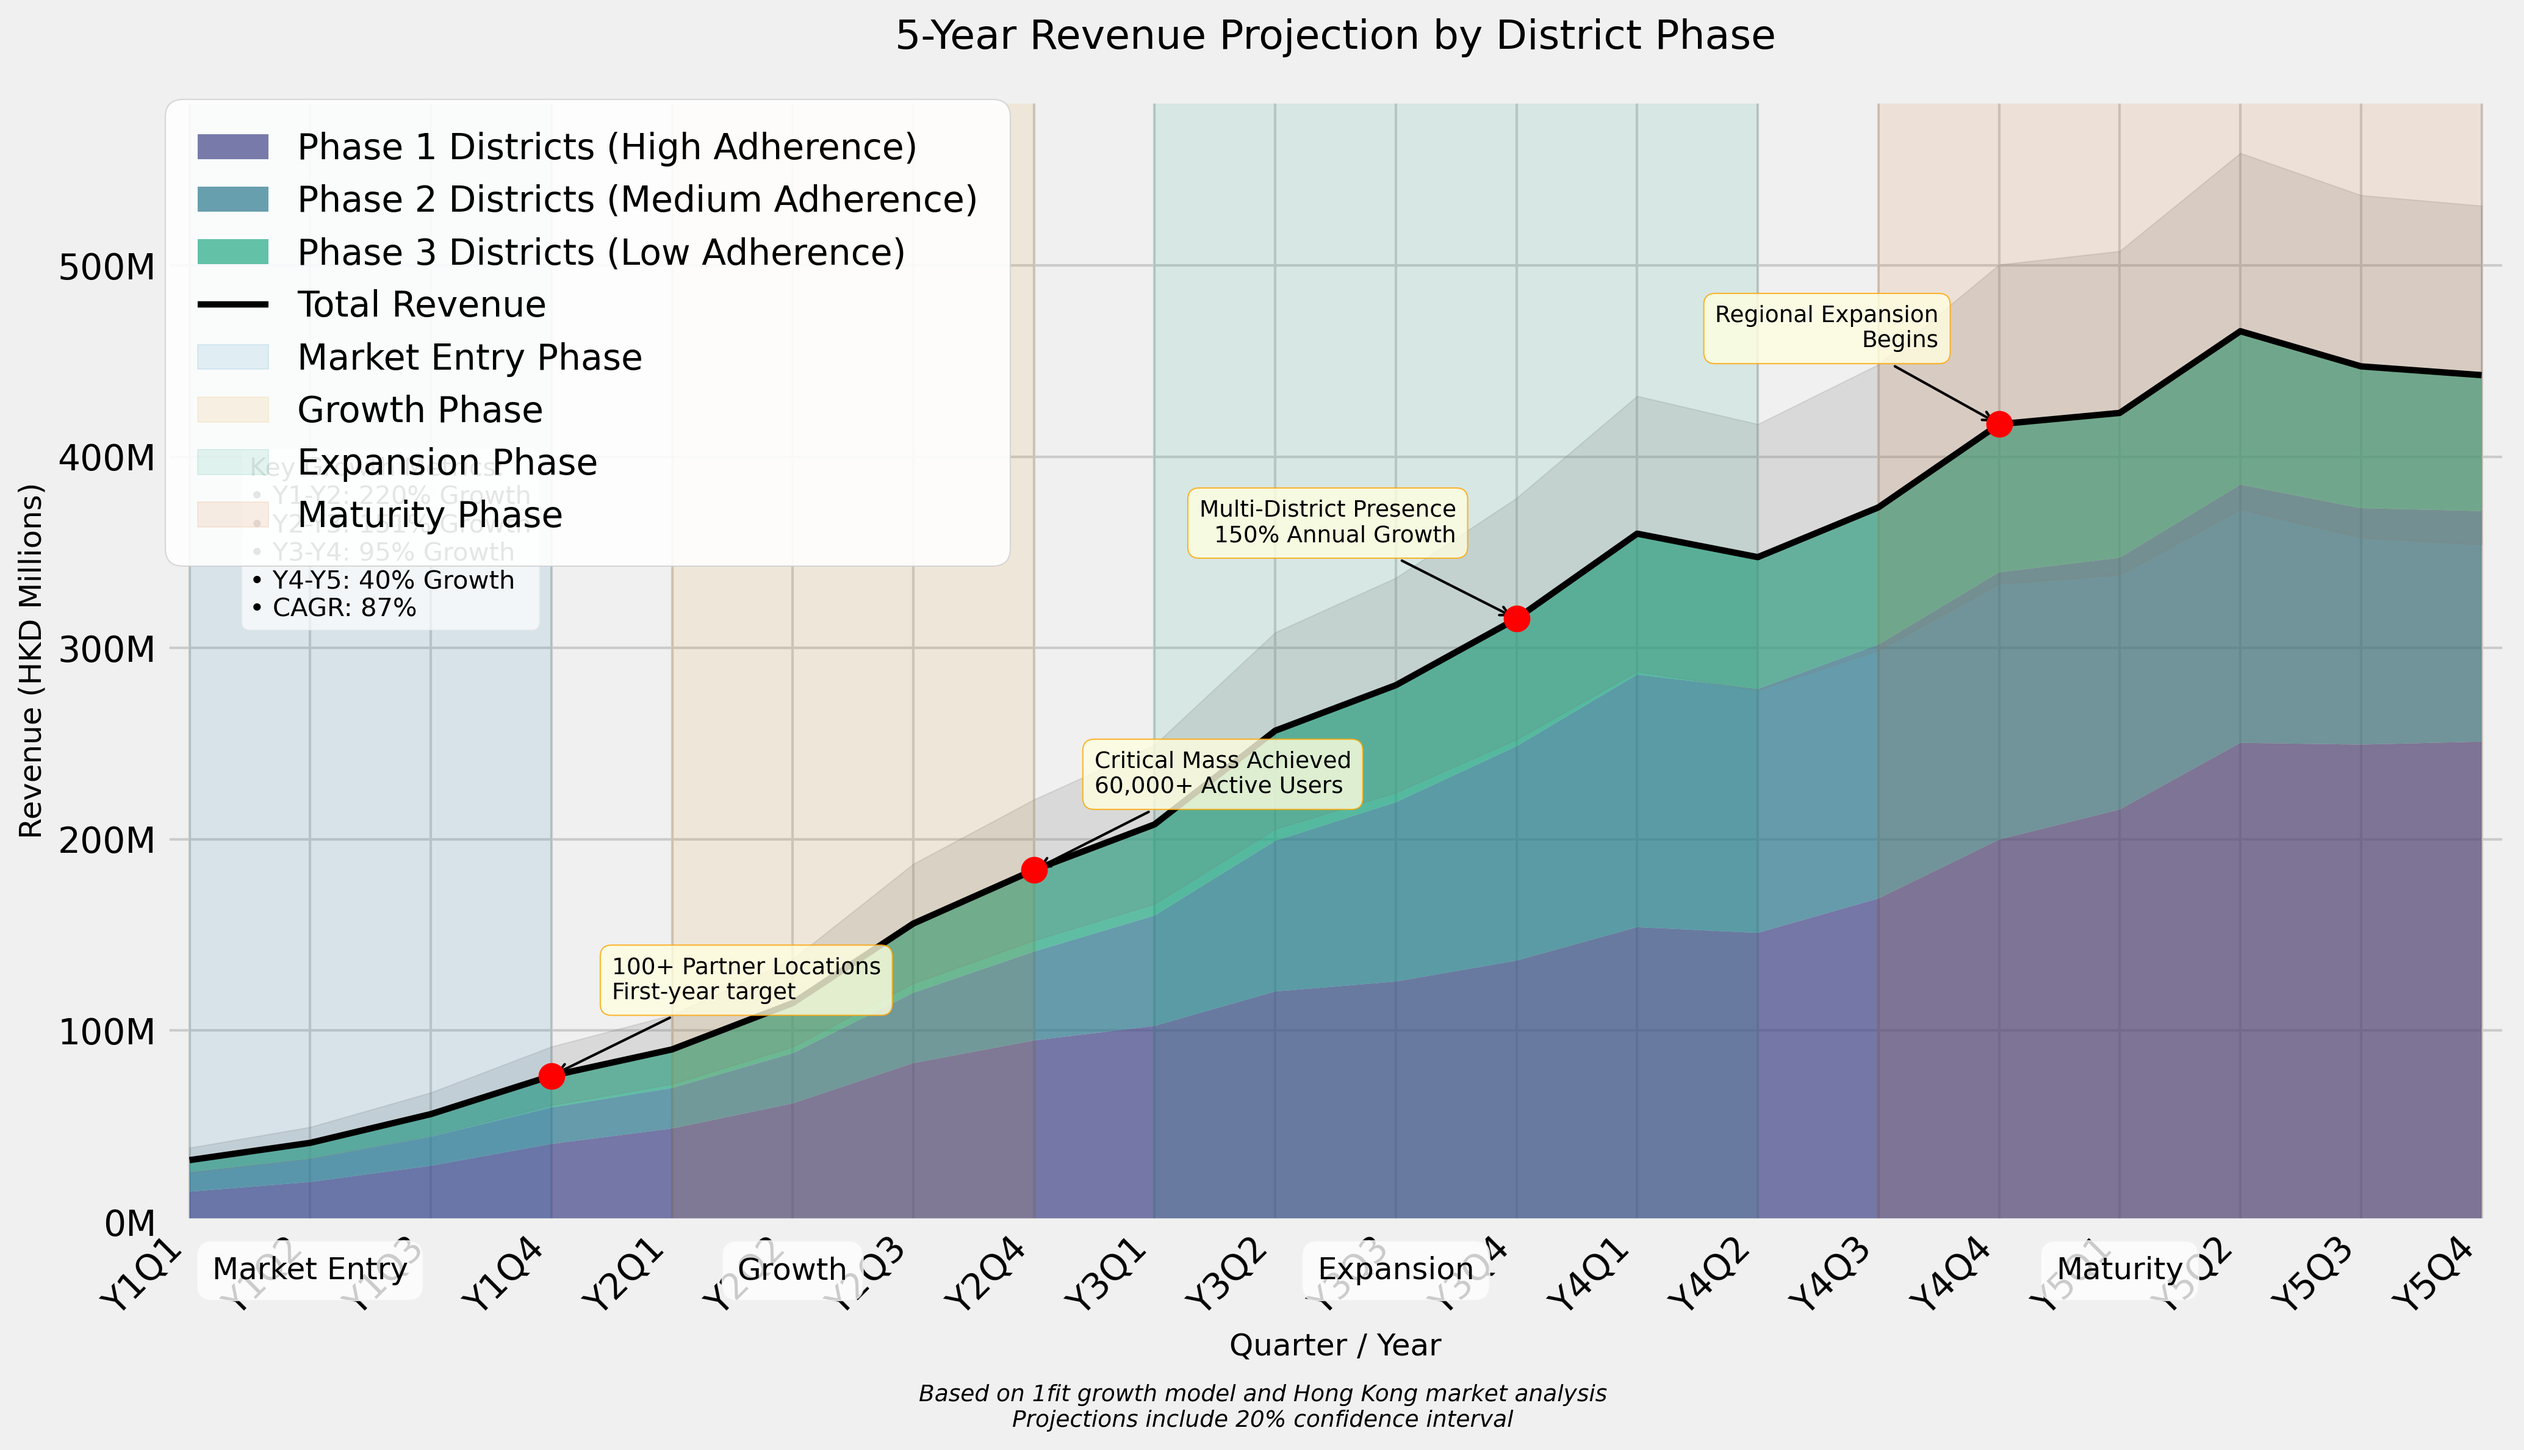
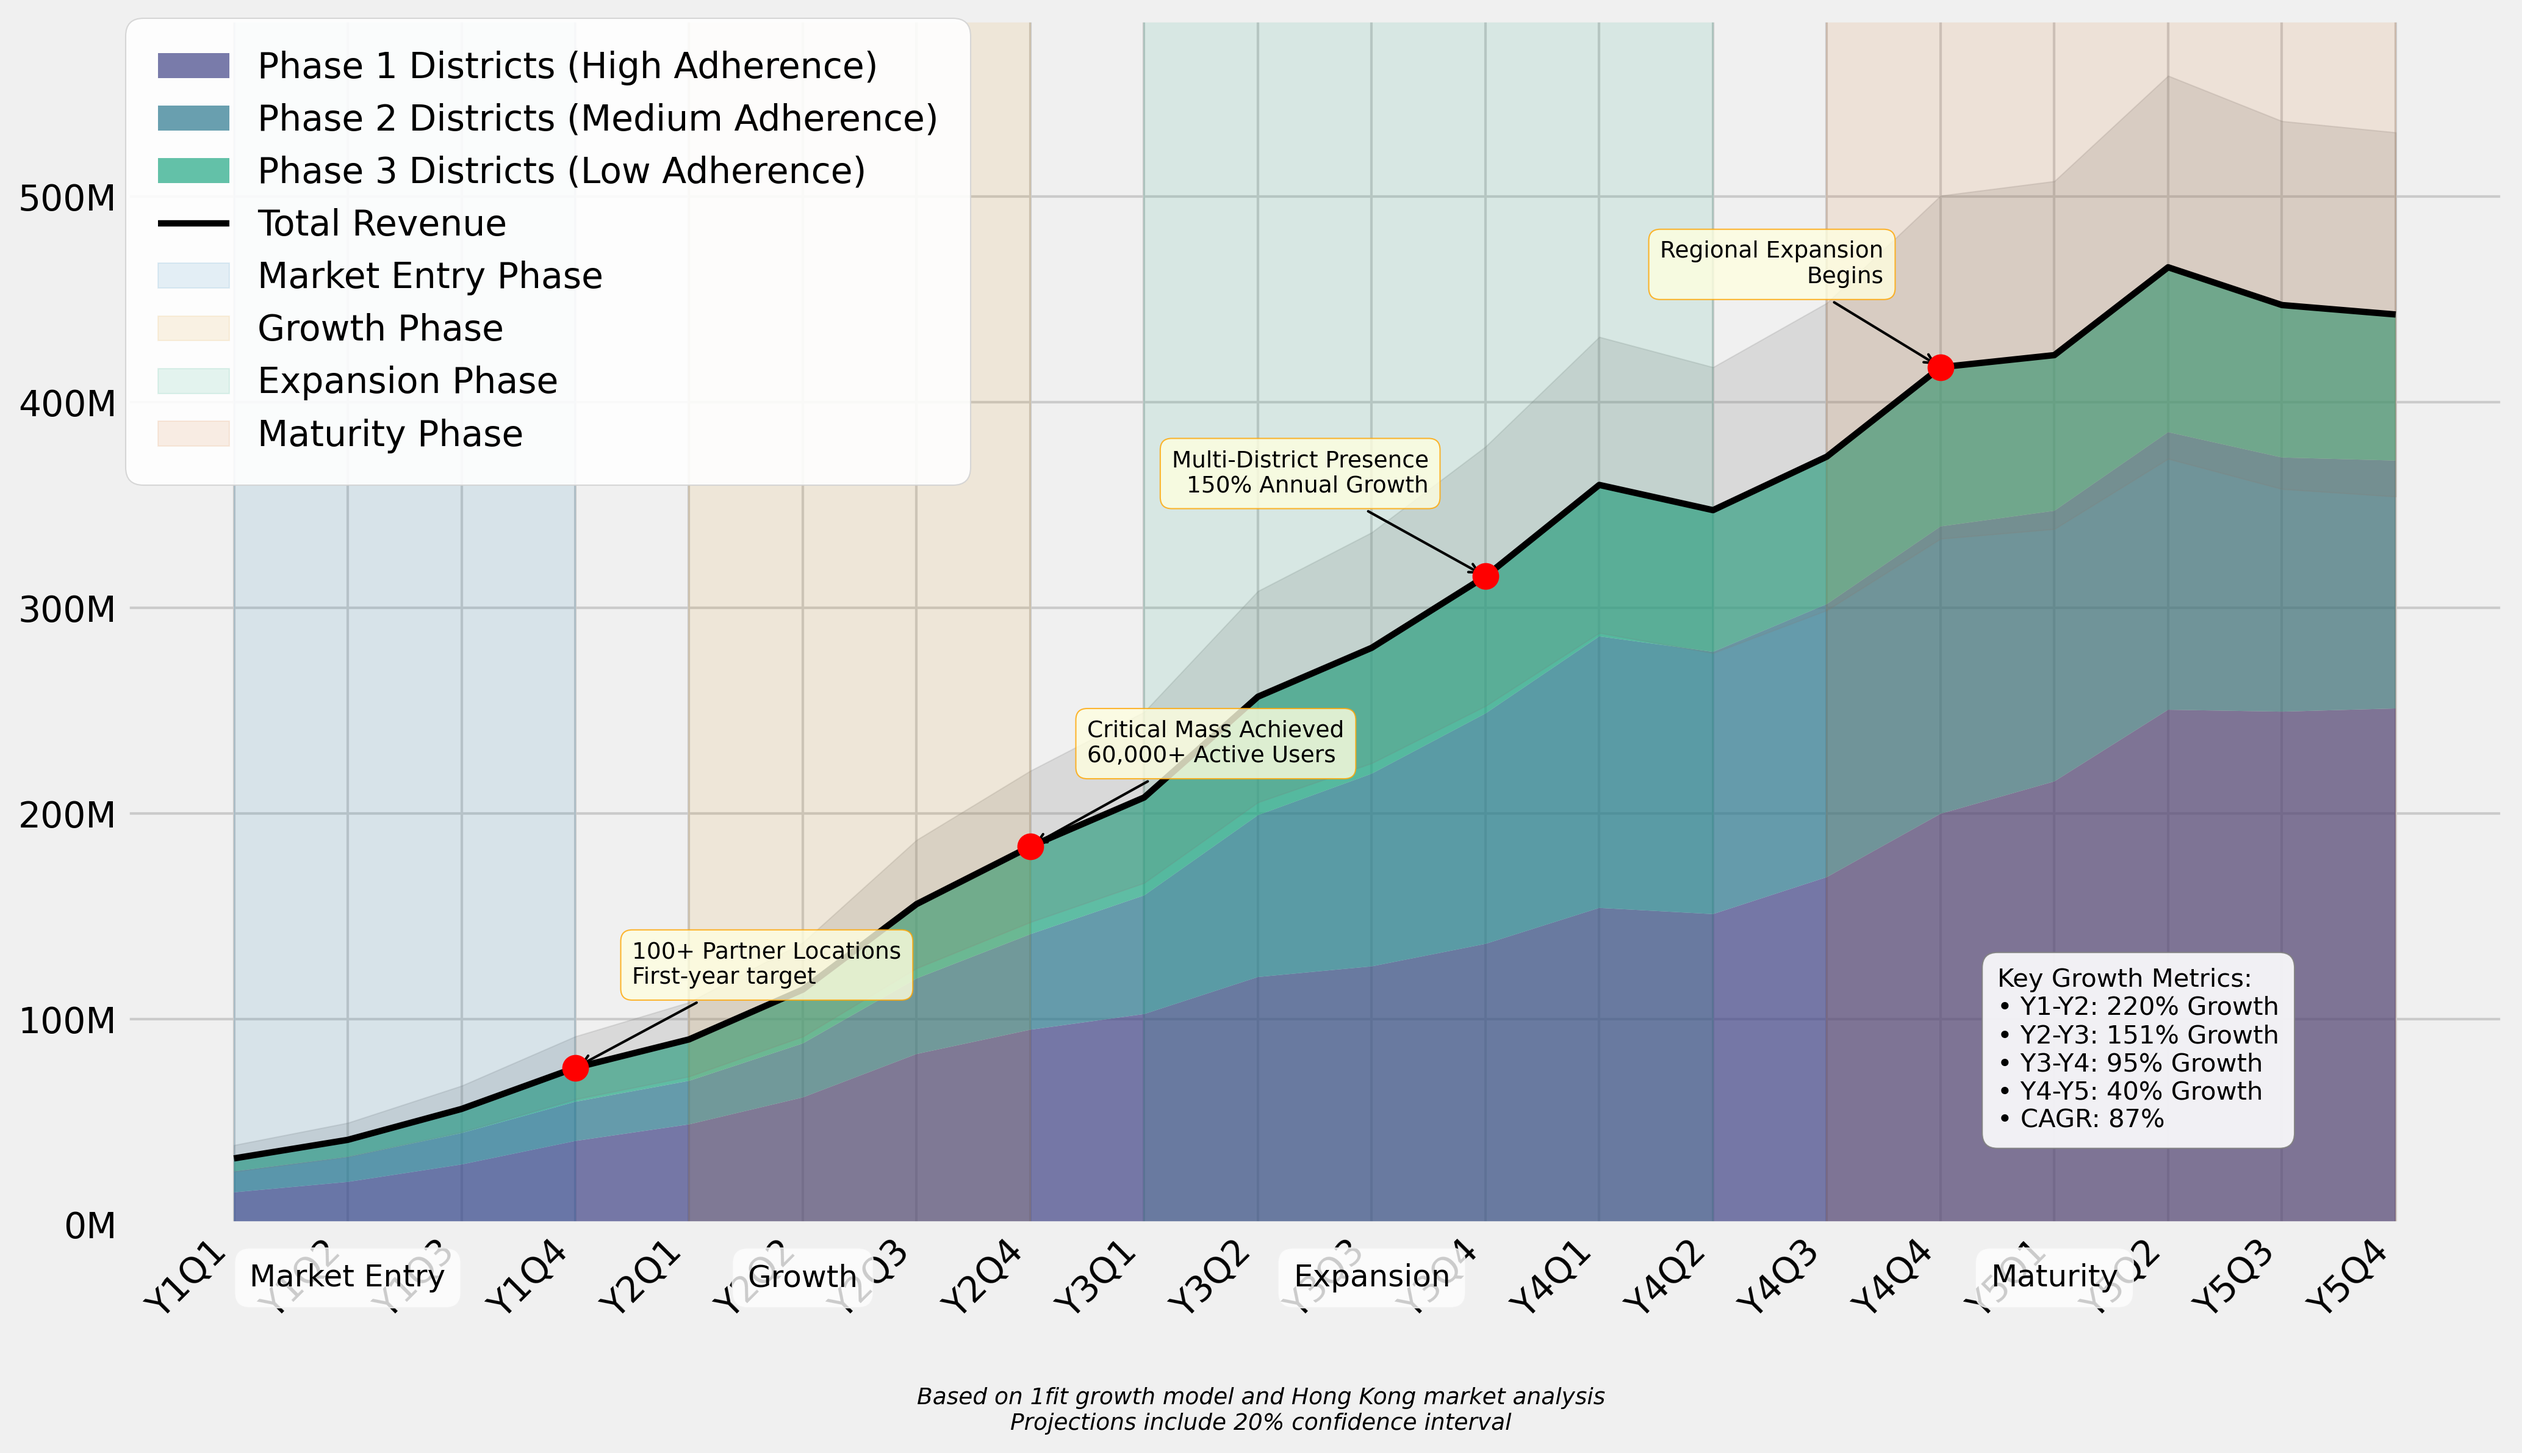
cer

diff --git a/impact_analysis/revenue_growth.py b/impact_analysis/revenue_growth.py
@@ -143,18 +143,25 @@ metrics_text = (
     "• Y4-Y5: 40% Growth\n"
     "• CAGR: 87%"
 )
-props = dict(boxstyle='round', facecolor='white', alpha=0.7)
-ax.text(1.5, 400, metrics_text, fontsize=10,
-        verticalalignment='top', horizontalalignment='left',
-        bbox=props)
 
-# Improve appearance
-ax.set_ylim(bottom=0)
-ax.set_xlim(0.8, 20.2)  # Give a bit of padding on both sides
-ax.set_ylabel('Revenue (HKD Millions)', fontsize=12)
-ax.set_xlabel('Quarter / Year', fontsize=12)
-ax.set_title('5-Year Revenue Projection by District Phase', fontsize=16, pad=20)
+# Enhanced styling for the metrics box to prevent overlap
+props = dict(
+    boxstyle='round,pad=0.6',
+    facecolor='white', 
+    edgecolor='gray',
+    alpha=0.9  # More opaque background
+)
 
+# Move to a better position and increase zorder to keep it on top
+ax.text(
+    16.5, 125,  # Position in top-right instead of left side
+    metrics_text, 
+    fontsize=10,
+    verticalalignment='top', 
+    horizontalalignment='left',
+    bbox=props,
+    zorder=15  # Higher zorder ensures it stays on top of other elements
+)
 # Add a footnote
 plt.figtext(0.5, 0.01, "Based on 1fit growth model and Hong Kong market analysis\nProjections include 20% confidence interval", 
             ha="center", fontsize=9, style='italic')

diff --git a/impact_analysis/outline.md b/impact_analysis/outline.md
@@ -1,0 +1,53 @@
+# Impact Analysis of Key Visualizations
+
+## Hong Kong District Heatmap
+
+The district-level visualization reveals critical geographic insights for market entry strategy:
+
+**High Adherence Districts (Phase 1):**
+- Central & Western (73% adherence rate) - *Potential user base: 36,394*
+- Wan Chai (61% adherence rate) - *Potential user base: 30,250*
+- Yau Tsim Mong (75% adherence rate) - *Potential user base: 37,364*
+
+These three districts represent prime initial target markets with approximately 104,000 potential users combined. Their high adherence rates indicate strong fitness engagement, suggesting reduced customer acquisition costs and higher lifetime value.
+
+**Medium Adherence Districts (Phase 2):**
+- Kowloon City (58%) through Eastern (49%) show moderate engagement
+- Islands (54%) and Tai Po (55%) demonstrate surprisingly strong potential despite less central locations
+- Average potential user base of ~25,000 per district
+
+**Low Adherence Districts (Phase 3):**
+- Wong Tai Sin (31%), Kwun Tong (36%) show the lowest engagement
+- These districts require specialized strategies and incentives
+
+This geospatial analysis enables precise resource allocation during expansion phases.
+
+## Revenue Growth Projection
+
+The revenue projection visualizes the financial trajectory across business phases:
+
+**Market Entry Phase (Year 1):**
+- Initial traction in Phase 1 districts showing modest revenue growth
+- Foundation building with 100+ partner locations established
+
+**Growth Phase (Years 2-3):**
+- Critical mass achievement (Q8) with exponential growth acceleration
+- 60,000+ active users producing 220% Y1-Y2 growth
+- Multi-district presence driving 151% Y2-Y3 growth
+
+**Expansion & Maturity Phases (Years 3-5):**
+- Geographic expansion reducing growth percentage but increasing absolute revenue
+- Confidence intervals showing manageable downside risk (20%) and significant upside potential
+
+The projection validates the critical mass marketplace model and provides clear milestone targets.
+
+## Valuation Multiple Comparison
+
+This visualization demonstrates the strategic geographic expansion path:
+
+1. **Central Asia base** (1.7x revenue multiple) - provides current foundation
+2. **Hong Kong entry** (3.5x multiple) - represents immediate valuation improvement
+3. **Southeast Asia presence** (2.8x multiple) - offers regional scale
+4. **Western market potential** (5.5x multiple) - provides 3x valuation uplift opportunity
+
+The analysis confirms the 1fit strategic approach - maintaining strong revenue in base markets while establishing even modest revenue streams in higher-multiple markets can dramatically increase overall valuation.
